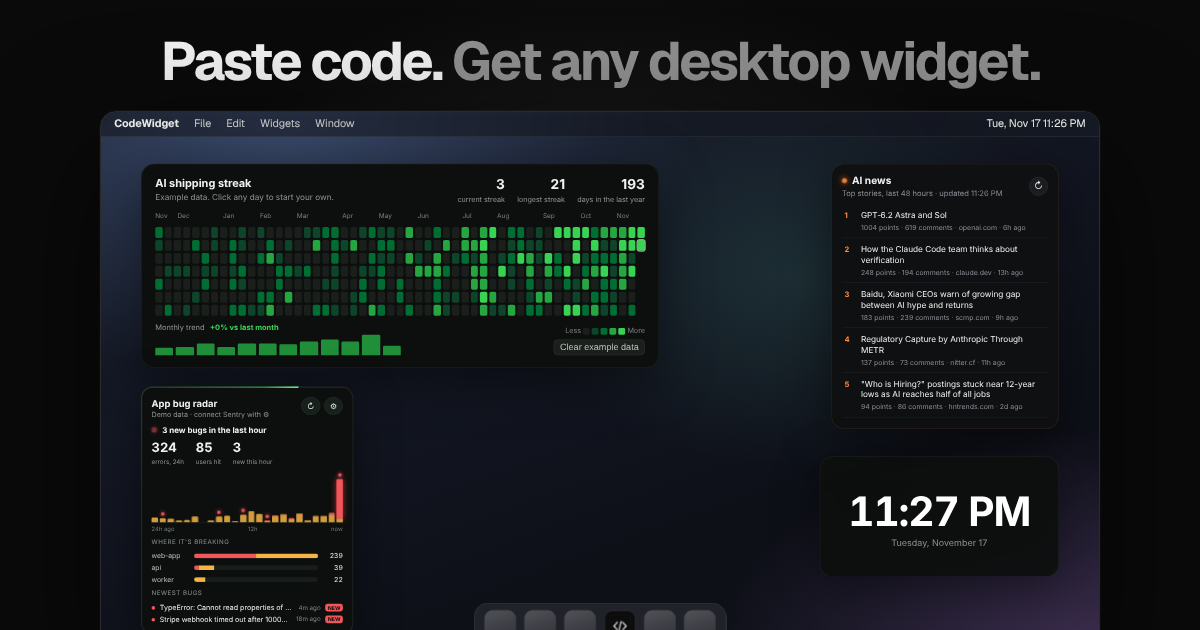
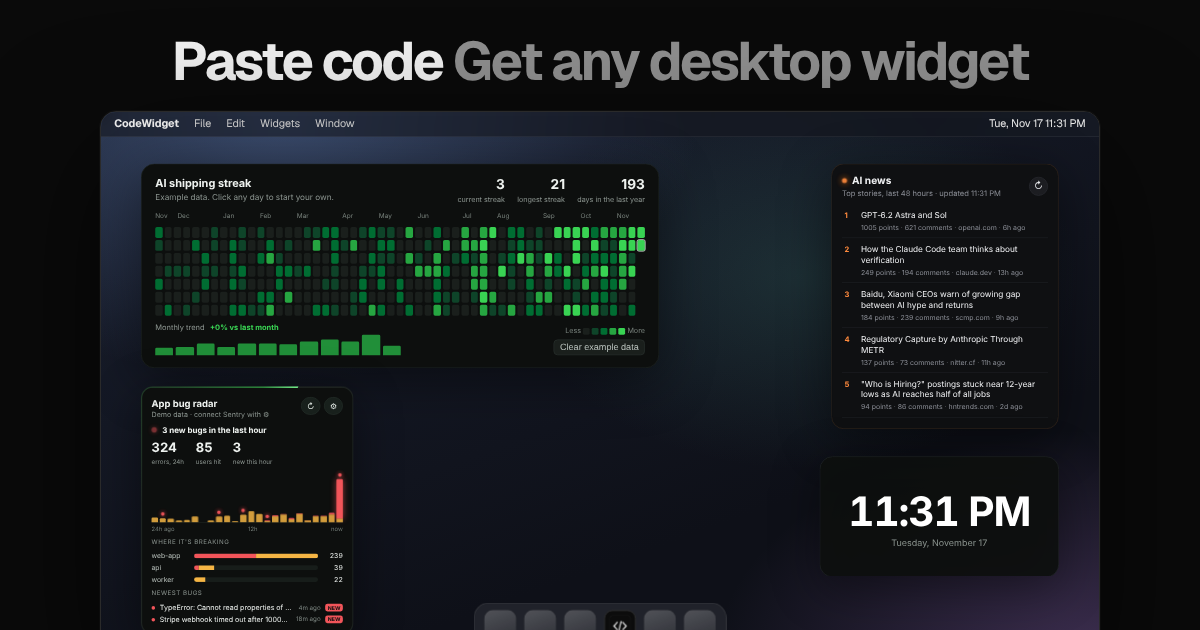
Website: no Built by Thomas pill, less space at the top, no full stops in the headline
- Removes the Built by Thomas pill from the hero (it stays in the footer).
- Less padding above the badges and headline.
- Headline reads "Paste code / Get any desktop widget" with no full stops; link preview image updated.

Claude-Session: https://claude.ai/code/session_017AiLmdtveXdU2VAx4AALy7

Changed region(s): [[0.1233, 0.0603, 0.8633, 0.1508], [0.8017, 0.181, 0.8942, 0.2111], [0.74, 0.7841, 0.8017, 0.8444]]

diff --git a/site/style.css b/site/style.css
@@ -44,7 +44,7 @@ button { font: inherit; }
 .link { background: none; border: 0; color: var(--sub); cursor: pointer; padding: 0; }
 .link:hover { color: var(--text); }
 
-.hero { position: relative; max-width: 1180px; margin: 0 auto; padding: 72px 24px 40px; text-align: center; }
+.hero { position: relative; max-width: 1180px; margin: 0 auto; padding: 44px 24px 40px; text-align: center; }
 .badges { display: flex; flex-wrap: wrap; justify-content: center; gap: 8px; }
 .badge {
   display: inline-flex; align-items: center; gap: 7px; color: #bdbdbd; font-size: 13px; text-decoration: none;
@@ -53,7 +53,7 @@ button { font: inherit; }
 }
 .badge:hover { border-color: #444; color: #fff; }
 .badge .pulse { width: 7px; height: 7px; border-radius: 50%; background: #39d353; box-shadow: 0 0 8px #39d353; }
-h1 { font-size: clamp(40px, 6.4vw, 76px); line-height: 1.02; letter-spacing: -0.045em; font-weight: 700; margin: 26px 0 18px; }
+h1 { font-size: clamp(40px, 6.4vw, 76px); line-height: 1.02; letter-spacing: -0.045em; font-weight: 700; margin: 20px 0 16px; }
 h1 .soft { color: #8f8f8f; }
 .lead { color: var(--sub); font-size: 18px; margin: 0 auto; max-width: 540px; }
 .ctas { display: flex; justify-content: center; gap: 10px; margin-top: 28px; }
@@ -222,7 +222,7 @@ details p { color: #cfcfcf; margin: 10px 0 0; }
 }
 
 @media (max-width: 820px) {
-  .hero { padding-top: 48px; }
+  .hero { padding-top: 32px; }
   .ctas .ghost { display: none; }
   .showcase { margin-top: 36px; border-radius: 10px; }
   .nav-links a:not(.btn) { display: none; }

diff --git a/site/index.html b/site/index.html
@@ -37,9 +37,8 @@
   <div class="badges">
     <a class="badge" href="https://github.com/thomaslrw/CodeWidget" target="_blank" rel="noopener"><span class="pulse"></span>Open source &middot; MIT</a>
     <a class="badge" href="https://github.com/thomaslrw/CodeWidget" target="_blank" rel="noopener" id="stars">&#9733; Star on GitHub</a>
-    <a class="badge" href="https://www.instagram.com/thomas.lrw/" target="_blank" rel="noopener">Built by Thomas</a>
   </div>
-  <h1>Paste code.<br><span class="soft">Get any desktop widget.</span></h1>
+  <h1>Paste code<br><span class="soft">Get any desktop widget</span></h1>
   <p class="lead">Ask any AI for a widget, paste the code and see it live. Then pin it to your desktop in one click.</p>
   <div class="ctas">
     <a class="btn big" href="#maker">Try it now</a>
